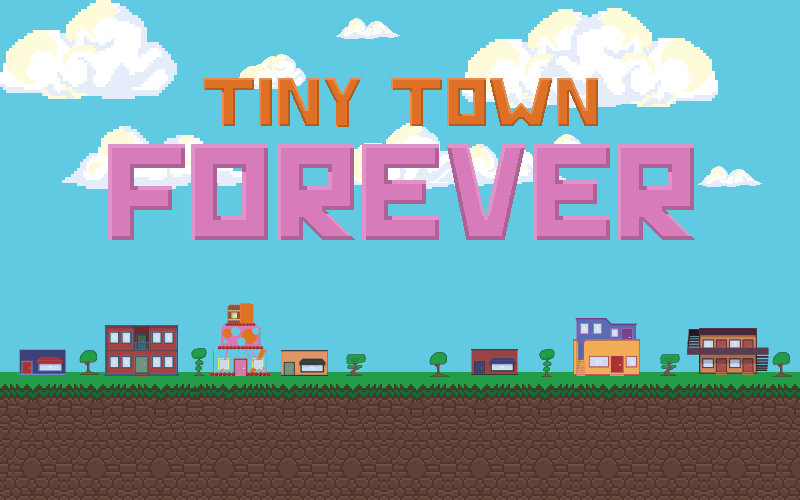
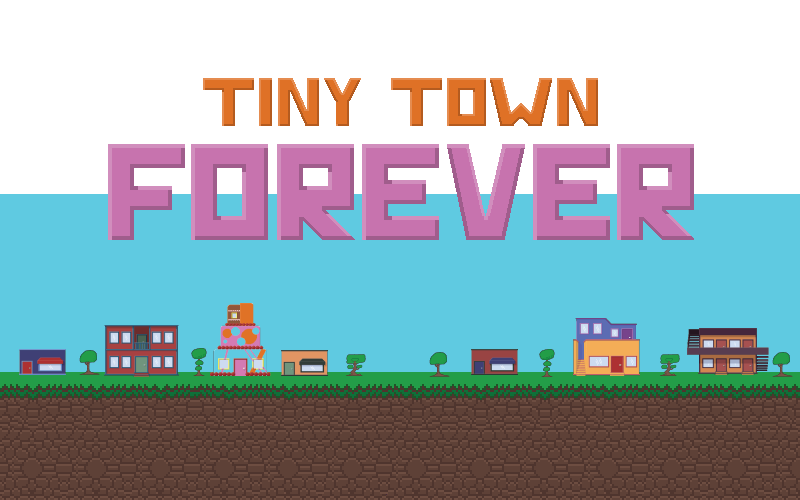
menu clouds scroll

Changed region(s): [[0.0, 0.0, 1.0, 0.39], [0.375, 0.33, 0.4062, 0.39]]

diff --git a/TTF/js/main.js b/TTF/js/main.js
@@ -38,6 +38,9 @@ var groundHeight = 144;
 var gameWidth = 800;
 var gameHeight = 500;
 var worldWidth = gameWidth + 6400;
+
+var clouds;
+var menuClouds;
 //var game = new Phaser.Game(windowX, windowY, Phaser.AUTO, '', { preload: preload, create: create, update: update });
 var game = new Phaser.Game(gameWidth, gameHeight, Phaser.AUTO);
 var MainMenu = function(game){};
@@ -86,6 +89,8 @@ MainMenu.prototype = {
         game.load.image('creditsButton', 'assets/img/buttons/credits_button.png')//W:192H:64
 
         game.load.image('menu_background', 'assets/img/mainMenuBackground.png');
+        game.load.image('clouds', 'assets/img/clouds/clouds.png');
+        game.load.image('menuClouds', 'assets/img/menu_clouds.png');
 
         game.load.audio('main_music', ['assets/audio/GameplayMusic.wav']);
         this.placementSound = game.load.audio('placement_sound', ['assets/audio/Dropitem.wav']);
@@ -99,7 +104,10 @@ MainMenu.prototype = {
         //sky = game.add.sprite(0, 0, 'sky');
         //ground = game.add.sprite(0, gameHeight-144, 'ground');
         //ground.scale.set(100,4);
+
+        menuClouds = game.add.tileSprite(0, 0, worldWidth, 200, 'menuClouds');
         game.add.sprite(0,0,'menu_background');
+
 
         buildings = game.add.physicsGroup();
         people = game.add.physicsGroup();
@@ -119,6 +127,7 @@ MainMenu.prototype = {
     },
     update: function() {
         //Title screen logic
+        menuClouds.autoScroll(-7,0);
     }
 }
 
@@ -131,9 +140,6 @@ var lava;
 var timeUntilLava;
 var lavaSpeed;
 var cameraFollowLavaSpeed;
-
-
-var clouds;
 
 
 var timer;
@@ -157,7 +163,6 @@ GamePlay.prototype = {
         lavaSpeed = 100;
         cameraFollowLavaSpeed = .005;
 
-        game.load.image('clouds', 'assets/img/clouds/clouds.png');
 
     },
     create: function() {
